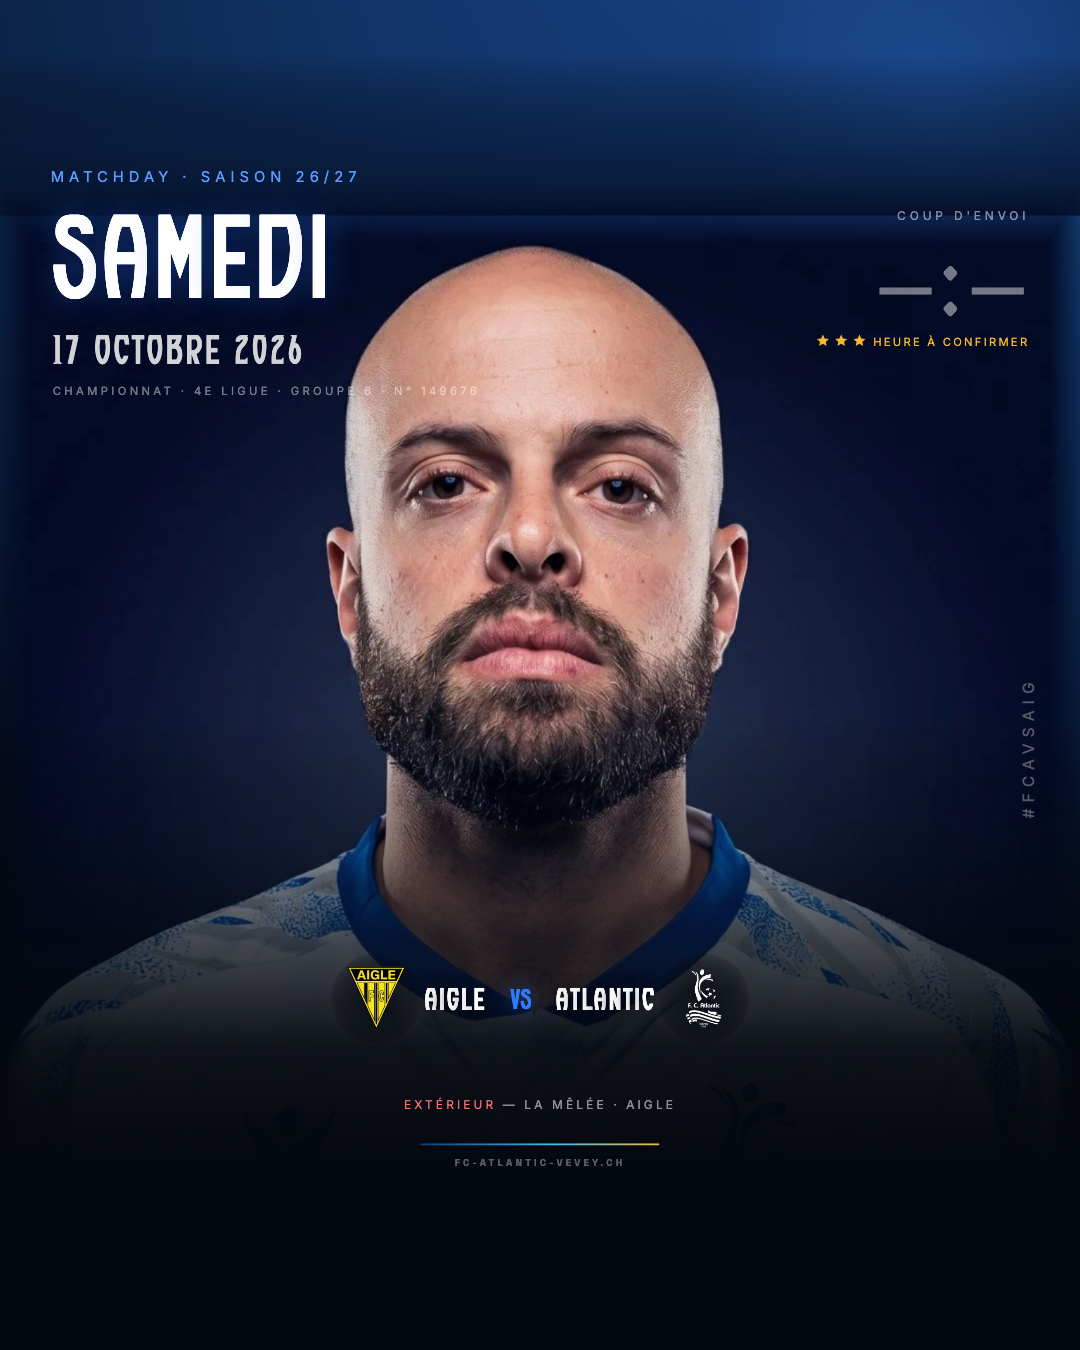
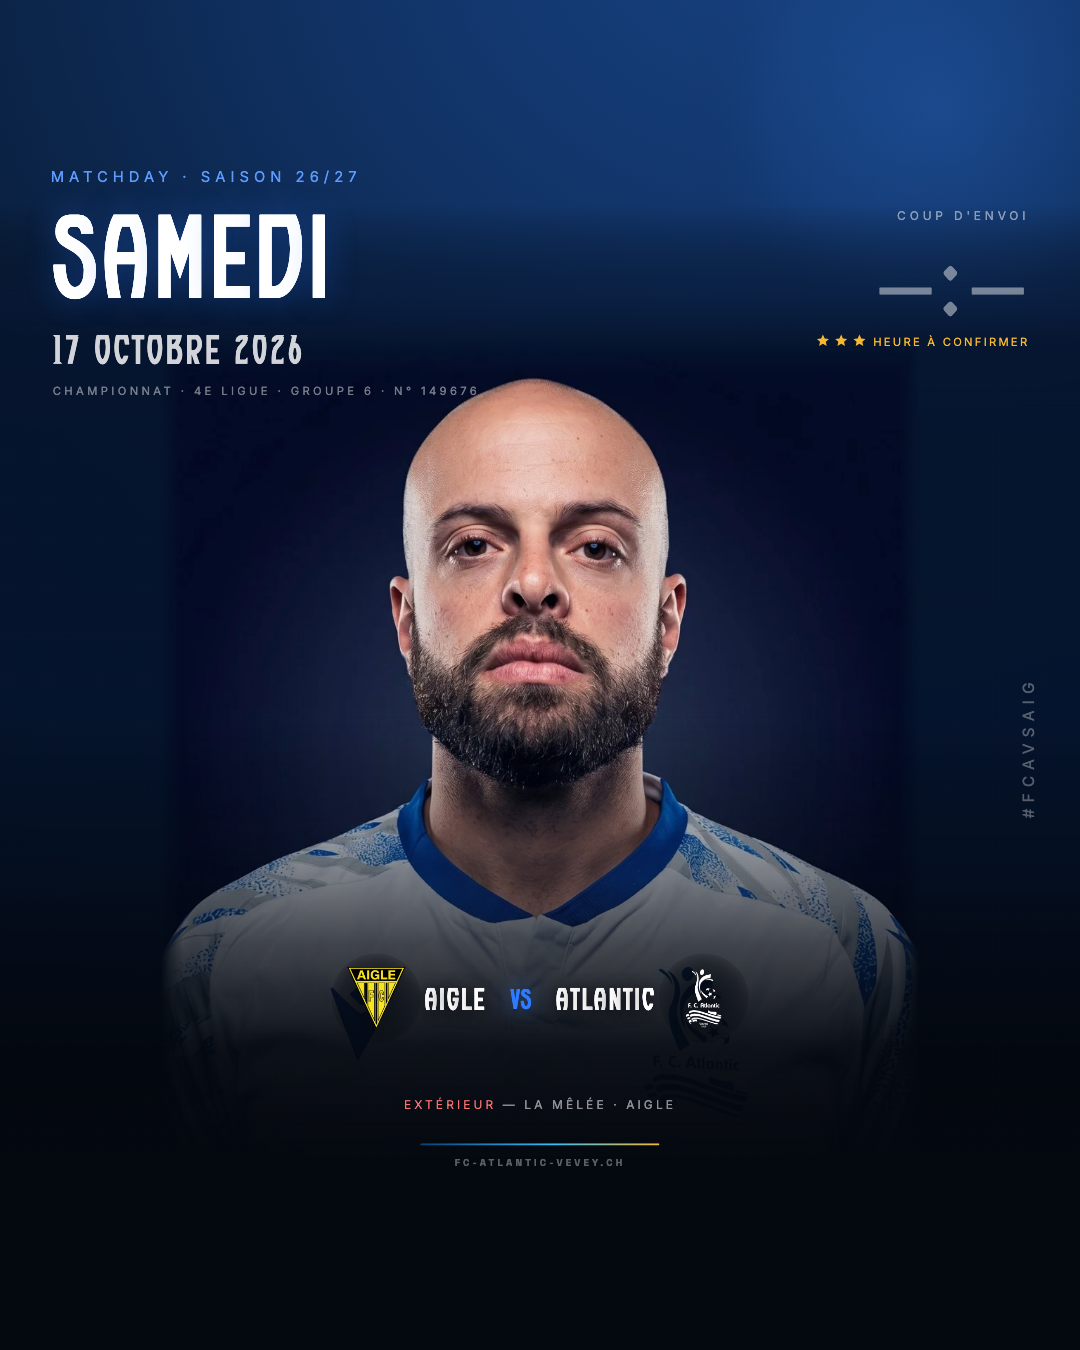
fix(design): composition identique story/post, jonctions photo invisibles
- La photo garde la MÊME taille et le même ancrage dans les deux formats ;
  une nappe bleu nuit pleine largeur la prolonge en post (le canvas y est
  plus large que 1080) et absorbe son bord haut.
- Alpha de la nappe calée sur le bord réel de l'image (y480) : transitions
  mesurées lisses en vertical (55→50→44→34) comme en horizontal
  (46→39→33→27). Plus aucune boîte visible.
- Le visage ne monte plus dans le titre en 4:5.

Changed region(s): [[0.0306, 0.0622, 1.0, 0.7778]]

diff --git a/index.html b/index.html
@@ -1368,15 +1368,14 @@
          sombre se voit en post). Comme le canvas post est plus large, l'image
          grandit : on remonte son ancrage pour que le VISAGE tombe au même
          endroit qu'en story — composition identique dans les deux formats. */
-      const w = FB.vw;
-      const top = Math.round(480 - (w / 1080 - 1) * 504);
-      /* Les photos de la banque ont un fond bleu nuit cuit dans l'image : sans
-         préparation, leur bord haut dessine une ligne nette sur le ciel. On
-         assombrit progressivement la bande juste au-dessus → la jonction
-         disparaît. */
-      return `<div style="position:absolute; left:0; right:0; top:${top - 190}px; height:230px; background:linear-gradient(180deg, transparent 0%, rgba(6,20,45,0.55) 55%, rgba(6,20,45,0.95) 100%);"></div>
+      /* La photo garde EXACTEMENT la même taille et le même ancrage en story
+         et en post (composition identique). Comme le canvas post est plus
+         large que la photo, une nappe bleu nuit la prolonge sur toute la
+         largeur — c'est elle qui absorbe aussi le bord haut de l'image (ces
+         photos portent un fond cuit qui dessinerait sinon une ligne nette). */
+      return `<div style="position:absolute; left:0; right:0; top:290px; bottom:0; background:linear-gradient(180deg, transparent 0px, rgba(6,20,45,0.58) 130px, rgba(6,20,45,0.9) 195px, rgba(6,20,45,0.95) 320px, rgba(6,20,45,0.96) 100%);"></div>
       <div style="position:absolute; top:430px; left:50%; margin-left:-420px; width:840px; height:840px; background:radial-gradient(circle, rgba(46,123,255,0.3) 0%, rgba(46,123,255,0.1) 42%, transparent 68%);"></div>
-      <div style="position:absolute; left:0; top:${top}px; width:${w}px; height:${Math.round(w * 4 / 3)}px; background-image:url('${d}'); background-size:contain; background-position:center top; background-repeat:no-repeat;"></div>`;
+      <div style="position:absolute; left:50%; margin-left:-540px; top:480px; width:1080px; height:1440px; background-image:url('${d}'); background-size:contain; background-position:center top; background-repeat:no-repeat;"></div>`;
     },
     scrim(topY = 1020) {
       return `<div style="position:absolute; left:0; right:0; top:${topY}px; bottom:0; background:linear-gradient(180deg, transparent 0%, rgba(4,8,15,0.35) 20%, rgba(4,8,15,0.72) 36%, rgba(4,8,15,0.95) 52%, rgba(4,8,15,1) 70%);"></div>`;
